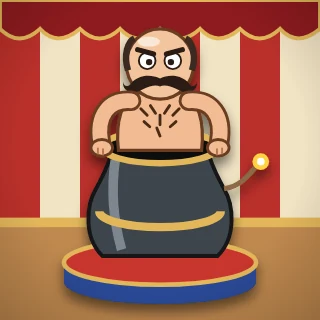
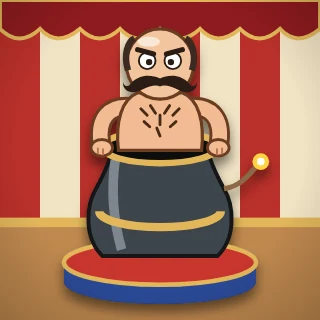
胸毛絶体絶命: アイコンの腕を胴の後ろに描き、肩を胴の横から出す
Claude-Session: https://claude.ai/code/session_01EAdv13GgcC1n64uiCCvsuD

Changed region(s): [[0.5625, 0.2812, 0.7188, 0.4375], [0.2812, 0.2812, 0.4375, 0.4062]]

diff --git a/web/pc-firebase/js/art.js b/web/pc-firebase/js/art.js
@@ -525,6 +525,7 @@ Object.assign(AR,{
    +`<path d="M32 80C26 74 27 64 30 59C32 55 34 52 35 47H65C66 52 68 55 70 59C73 64 74 74 68 80Z" fill="#3e444c" stroke="#121417" stroke-width="1.2"/><path d="M36 50Q34 64 38 78" stroke="#9aa3ad" stroke-width="3" fill="none" opacity=".7"/>`
    +`<path d="M31 66A19 5 0 0 0 69 66" stroke="#e2b75a" stroke-width="2.6" fill="none"/>`
    +`<ellipse cx="50" cy="46" rx="18" ry="5" fill="#0c0a09" stroke="#e2b75a" stroke-width="2"/>`
+   +`<path d="M40.5 33.5C34 33 30.5 37 31.5 44.5" stroke="#6a3c22" stroke-width="6.4" fill="none" stroke-linecap="round"/><path d="M40.5 33.5C34 33 30.5 37 31.5 44.5" stroke="#f2bc93" stroke-width="4.6" fill="none" stroke-linecap="round"/><path d="M59.5 33.5C66 33 69.5 37 68.5 44.5" stroke="#6a3c22" stroke-width="6.4" fill="none" stroke-linecap="round"/><path d="M59.5 33.5C66 33 69.5 37 68.5 44.5" stroke="#f2bc93" stroke-width="4.6" fill="none" stroke-linecap="round"/>`
    +`<path d="M37 47C36 38 38 31 43 29H57C62 31 64 38 63 47Z" fill="#f2bc93" stroke="#6a3c22" stroke-width="1"/>`
    +`<path d="M44 34l2 2M47 33l1.6 2.4M53 33l-1.6 2.4M56 34l-2 2M50 36v3M49 40l1 2.5M45 38l1.8 1.6M55 38l-1.8 1.6" stroke="#4a2c18" stroke-width=".9" stroke-linecap="round"/>`
    +`<ellipse cx="50" cy="20" rx="10.5" ry="11" fill="#f3c59d" stroke="#6a3c22" stroke-width="1"/><ellipse cx="46.5" cy="13" rx="3.5" ry="1.6" fill="#fff" opacity=".6"/>`
@@ -532,8 +533,7 @@ Object.assign(AR,{
    +`<circle cx="46" cy="19" r="2.6" fill="#fff" stroke="#2b1c14" stroke-width=".6"/><circle cx="54" cy="19" r="2.6" fill="#fff" stroke="#2b1c14" stroke-width=".6"/><circle cx="46.6" cy="19.4" r="1" fill="#2b1c14"/><circle cx="53.4" cy="19.4" r="1" fill="#2b1c14"/>`
    +`<path d="M43 15.5l5 1.4M57 15.5l-5 1.4" stroke="#2b1c14" stroke-width="1.6" stroke-linecap="round"/>`
    +`<path d="M50 24.5C47 23 43 23.5 41 26C40 27.5 38.5 27 38.5 25.5C38 29 42 29.5 44.5 28C47 26.6 49 26.5 50 27C51 26.5 53 26.6 55.5 28C58 29.5 62 29 61.5 25.5C61.5 27 60 27.5 59 26C57 23.5 53 23 50 24.5Z" fill="#2b1c14"/>`
-   +`<path d="M41 31.5C34 31 30 36 31.5 44.5" stroke="#6a3c22" stroke-width="6.4" fill="none" stroke-linecap="round"/><path d="M41 31.5C34 31 30 36 31.5 44.5" stroke="#f2bc93" stroke-width="4.6" fill="none" stroke-linecap="round"/>`
-   +`<path d="M59 31.5C66 31 70 36 68.5 44.5" stroke="#6a3c22" stroke-width="6.4" fill="none" stroke-linecap="round"/><path d="M59 31.5C66 31 70 36 68.5 44.5" stroke="#f2bc93" stroke-width="4.6" fill="none" stroke-linecap="round"/><ellipse cx="31.8" cy="46.2" rx="3.4" ry="2.6" fill="#f2bc93" stroke="#6a3c22" stroke-width=".9"/><ellipse cx="68.2" cy="46.2" rx="3.4" ry="2.6" fill="#f2bc93" stroke="#6a3c22" stroke-width=".9"/><path d="M30.6 46.4v1.6M32.2 46.6v1.7M67.8 46.6v1.7M69.4 46.4v1.6" stroke="#b9754f" stroke-width=".6" stroke-linecap="round"/>`
+      +`<ellipse cx="31.8" cy="46.2" rx="3.4" ry="2.6" fill="#f2bc93" stroke="#6a3c22" stroke-width=".9"/><ellipse cx="68.2" cy="46.2" rx="3.4" ry="2.6" fill="#f2bc93" stroke="#6a3c22" stroke-width=".9"/><path d="M30.6 46.4v1.6M32.2 46.6v1.7M67.8 46.6v1.7M69.4 46.4v1.6" stroke="#b9754f" stroke-width=".6" stroke-linecap="round"/>`
    +`<path d="M70 59C76 58 78 54 81 51" stroke="#8a6a44" stroke-width="1.6" fill="none"/><circle cx="81.5" cy="50.5" r="2.6" fill="#ffd23f"/><circle cx="81.5" cy="50.5" r="1.2" fill="#fff"/>`
    +`</g>`),
  roulette:I(bFelt(),(()=>{const cx=52,cy=49,n=18,da=2*Math.PI/n,ro=31,ri=19.5;

diff --git a/web/pc-firebase/sw.js b/web/pc-firebase/sw.js
@@ -1,5 +1,5 @@
 // PC 版(Web): ネットにつながる時はいつもネットから新しいファイルを取り、切れている時だけ保存したものを使う(tools/sync_pc.py が作る)
-const CACHE = "asobipcfb-20261121-munage-icon-2";
+const CACHE = "asobipcfb-20261121-munage-icon-3";
 const FILES = [
 "./css/twelve.css",
 "./css/falling.css",

diff --git a/README4AI_Claude_Codex_Antigravity.md b/README4AI_Claude_Codex_Antigravity.md
@@ -56,6 +56,9 @@
 
 ## 5. 変更の記録(新しいものを上に)
 
+### 2026-11-21 / Claude / 胸毛絶体絶命: アイコンの肩
+- ユーザー「肩が胸より手前に出ている」。腕を胴より後に描いていたため、付け根が胸に重なっていた → 腕を胴の後ろに描き、付け根を胴の横(肩)に隠した(手は砲口の縁の上のまま)。`tools/build_game_icons.cjs` で `munage.webp` を焼き直し。
+
 ### 2026-11-21 / Claude / 胸毛絶体絶命: メニューのアイコンの腕
 - ユーザー「腕の出ている位置がおかしい」。`js/art.js` の `munage`: 腕が砲口の縁から上へ生えていた(手も無かった)→ 肩から外へ出て下り、両手で砲口の縁をつかむ形に(盤の絵と同じ姿勢)。`sw.js` のキャッシュ名を更新。
 - メニューのアイコンは今は画像(`assets/game-icons/munage.webp`)なので、`tools/build_game_icons.cjs` で焼き直した(変わったのは munage.webp だけ)。
